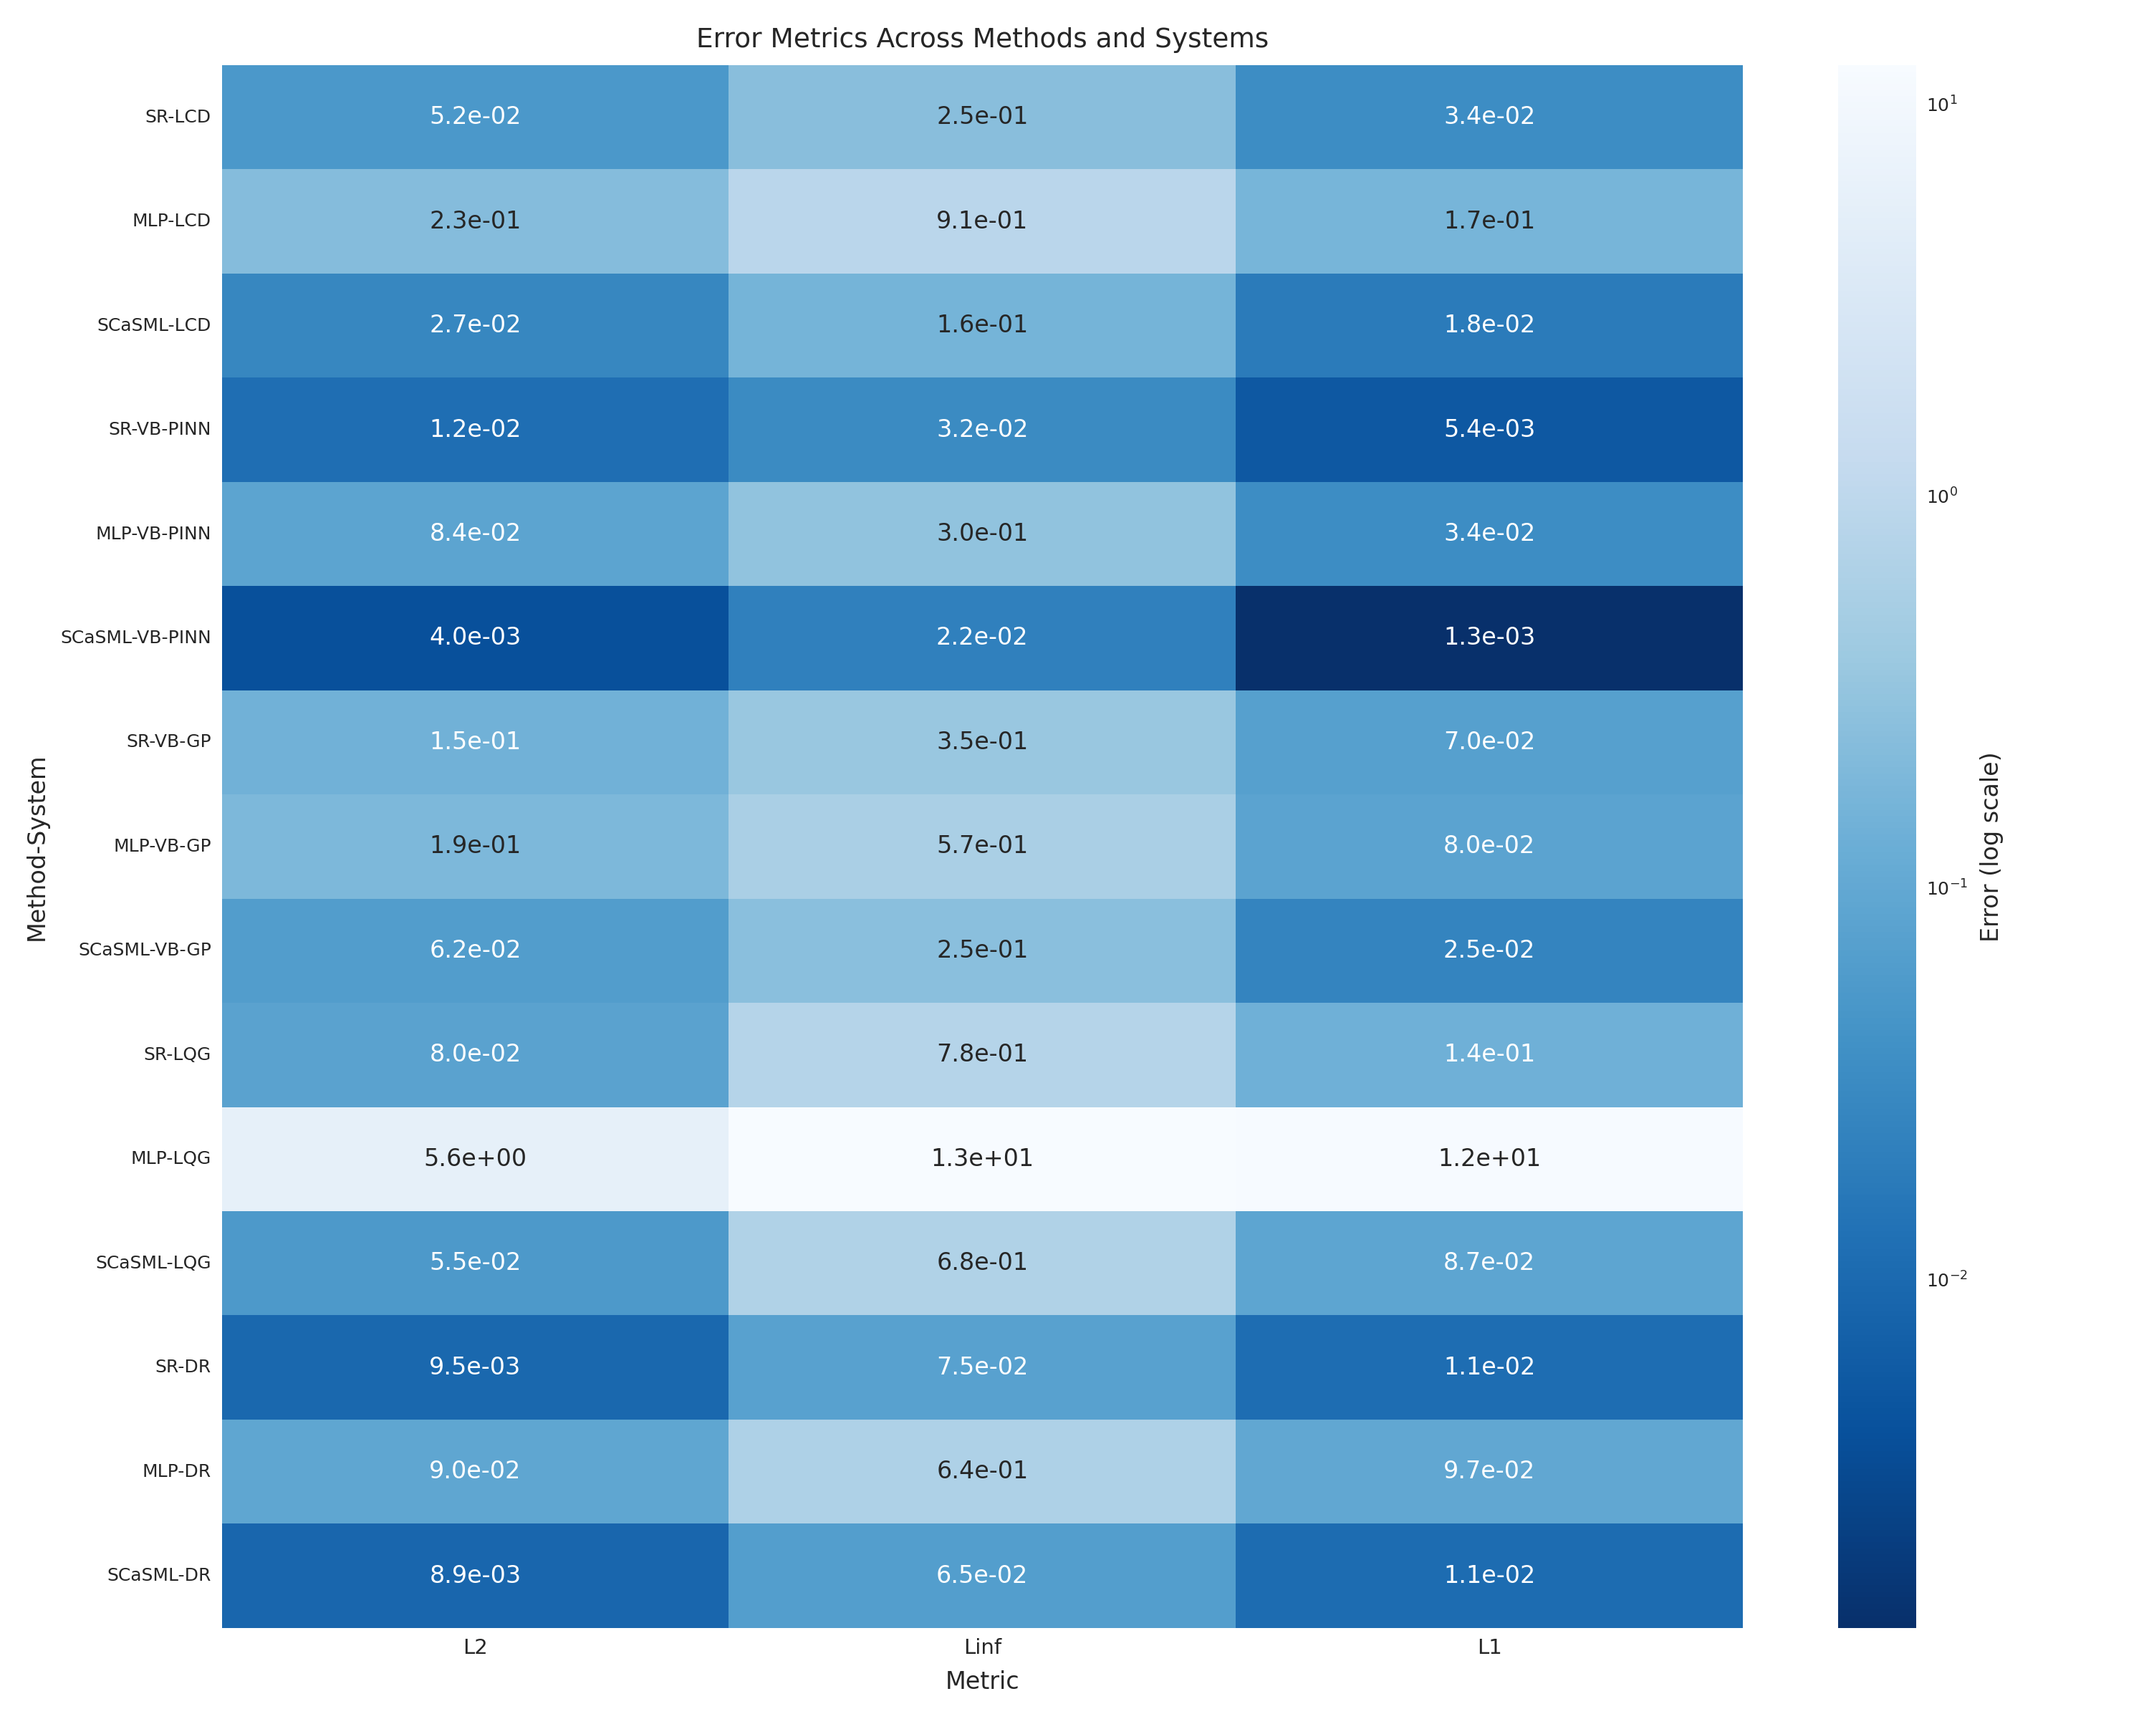
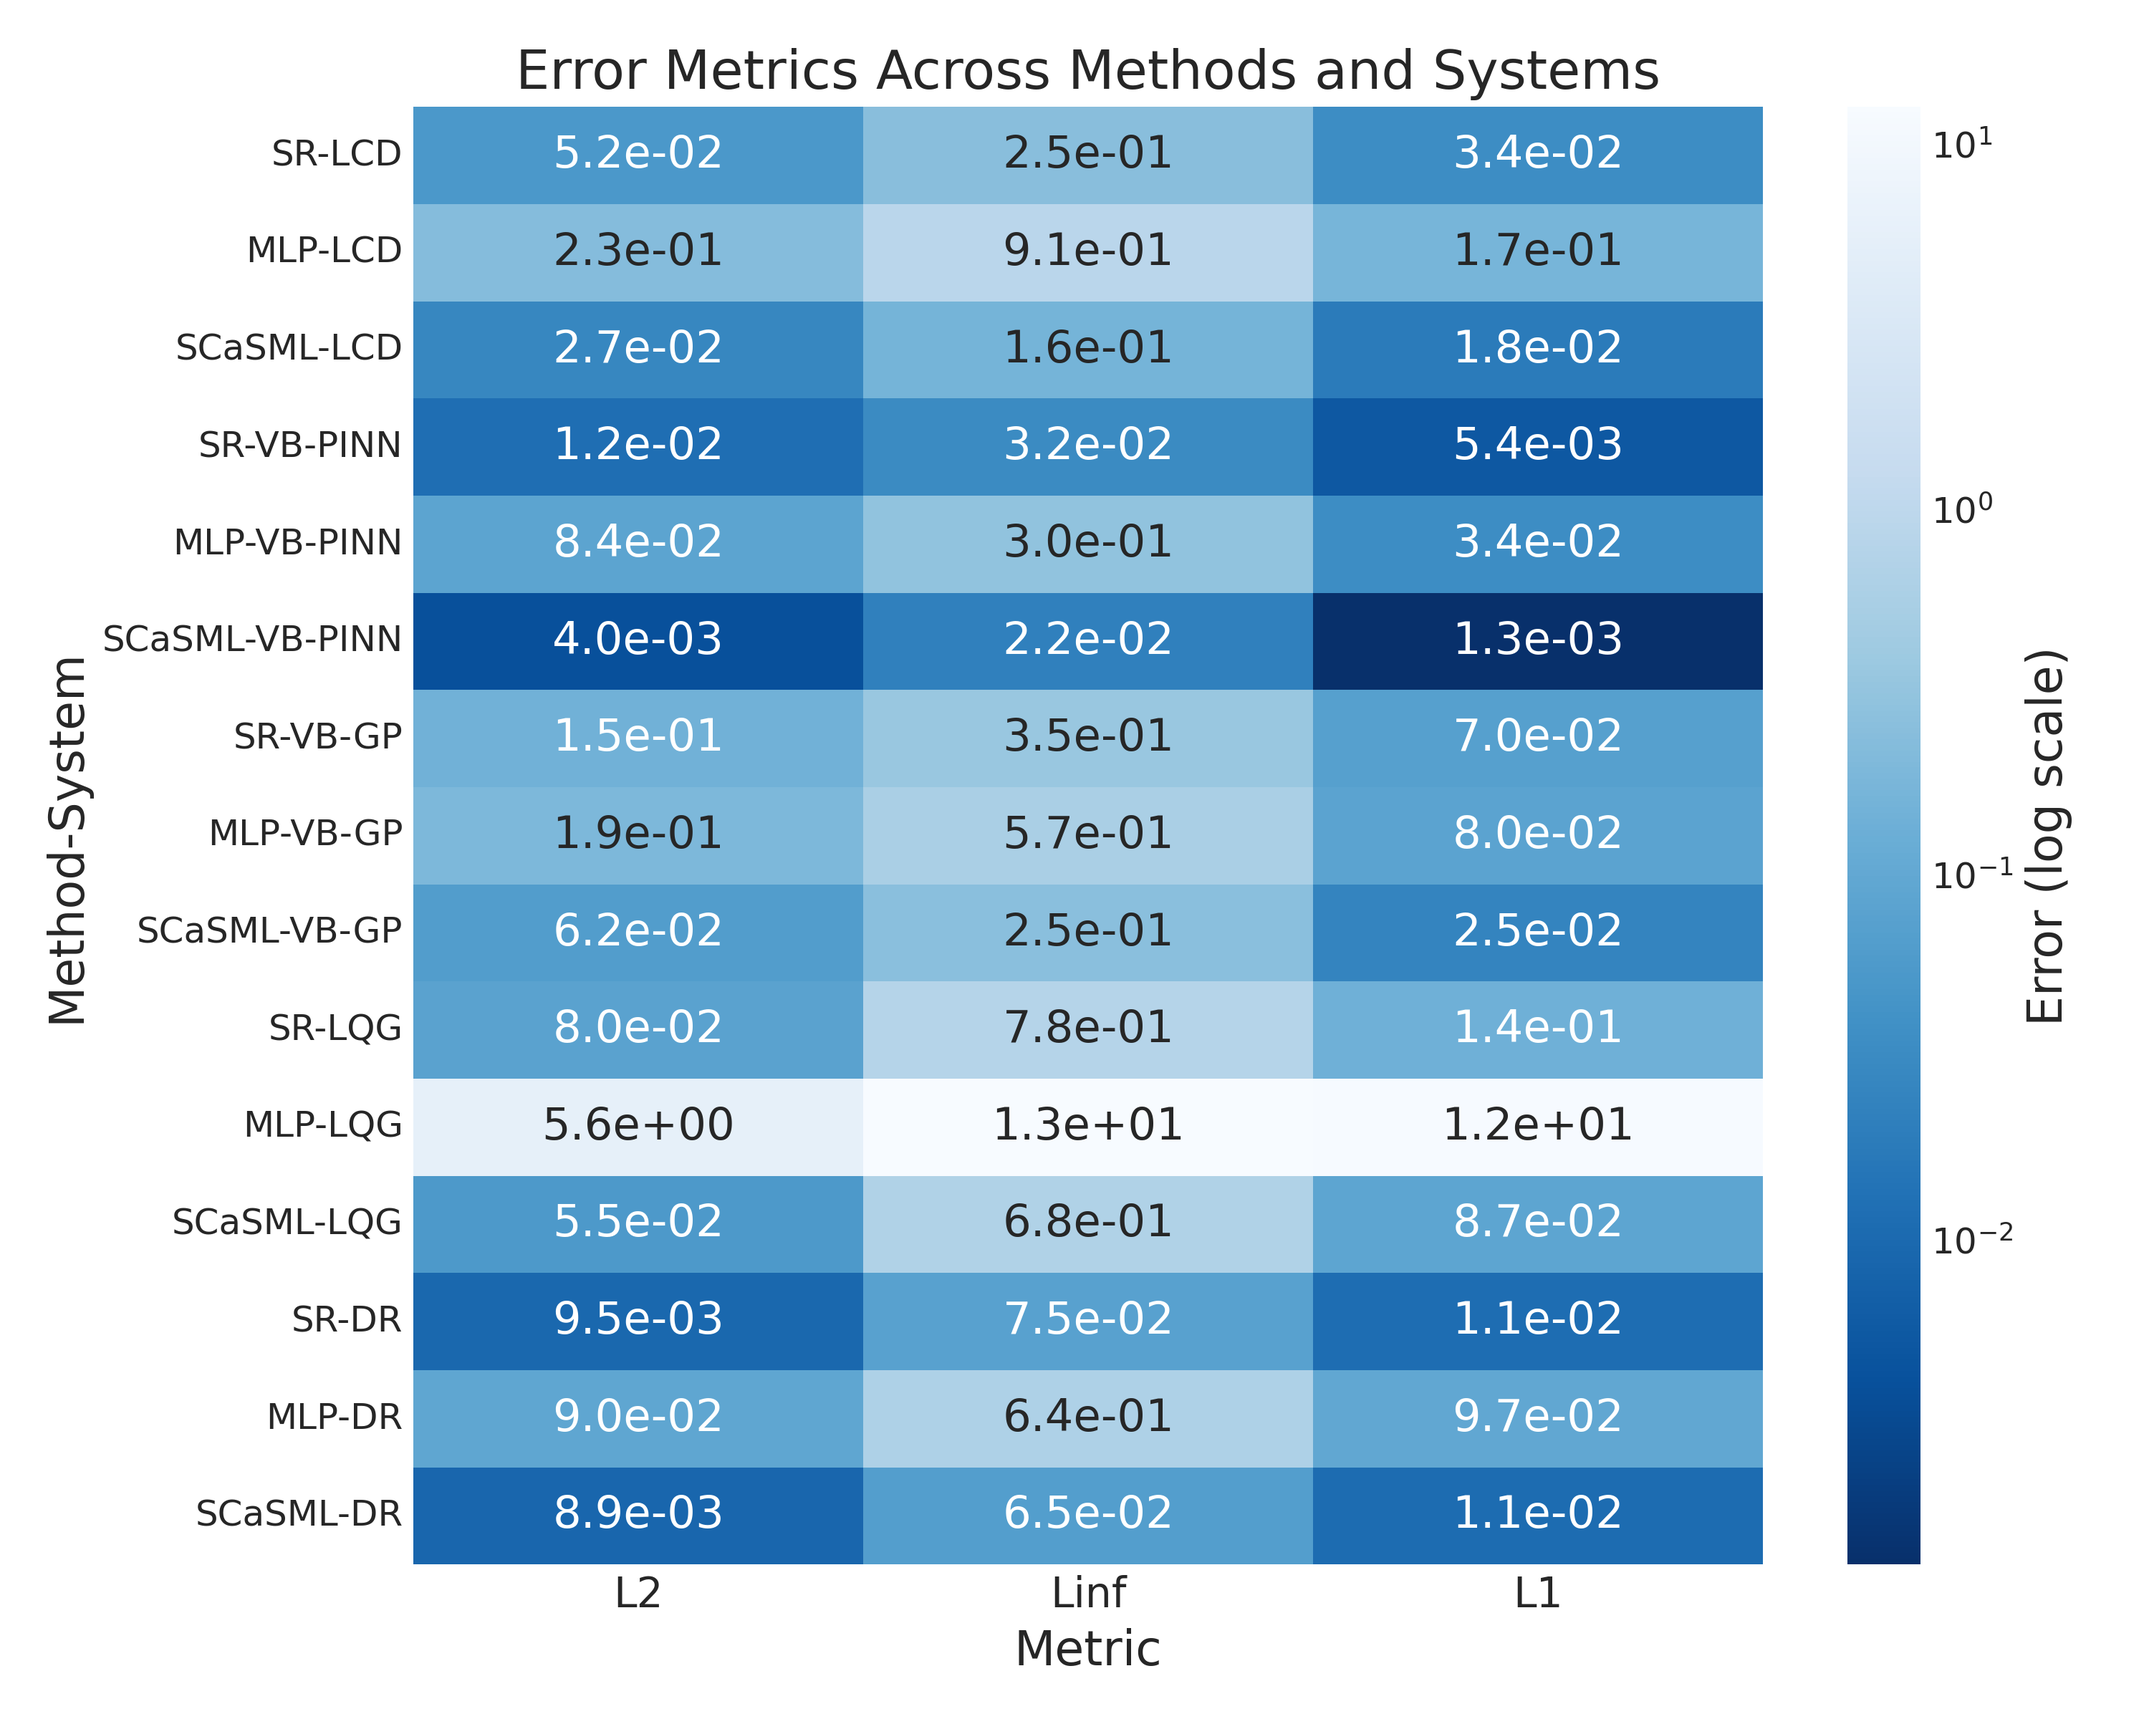
Update fontsize

diff --git a/utils/BarAndHeat.py b/utils/BarAndHeat.py
@@ -65,12 +65,12 @@ for sys_idx, system in enumerate(systems):
 plt.style.use('seaborn-v0_8-whitegrid')
 plt.rcParams.update({
     'font.family': 'DejaVu Sans',
-    'font.size': 8,           # Base font size
-    'axes.labelsize': 8,      # Axis labels (like metric names on radar)
-    'axes.titlesize': 9,      # Subplot titles
-    'xtick.labelsize': 7,     # X-tick labels (metric names here)
-    'ytick.labelsize': 6,     # Y-tick labels (radial axis)
-    'legend.fontsize': 7,     # Legend font size
+    'font.size': 15,           # Base font size
+    'axes.labelsize': 16,      # Axis labels (like metric names on radar)
+    'axes.titlesize': 18,      # Subplot titles
+    'xtick.labelsize': 14,     # X-tick labels (metric names here)
+    'ytick.labelsize': 12,     # Y-tick labels (radial axis)
+    'legend.fontsize': 14,     # Legend font size
     'axes.linewidth': 0.7,    # Thinner axis lines
     'grid.linewidth': 0.4,    # Thinner grid lines
     'lines.linewidth': 1.2,   # Slightly thinner plot lines
